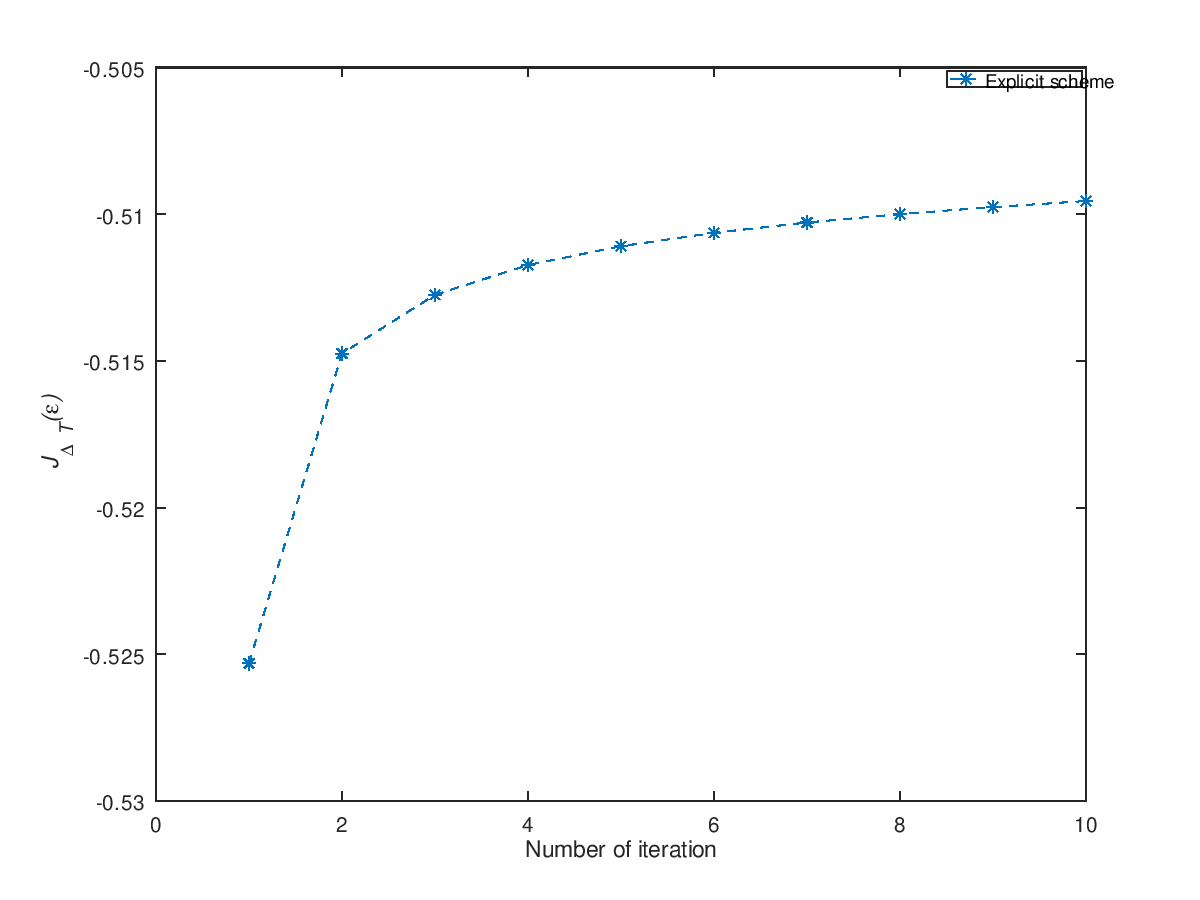
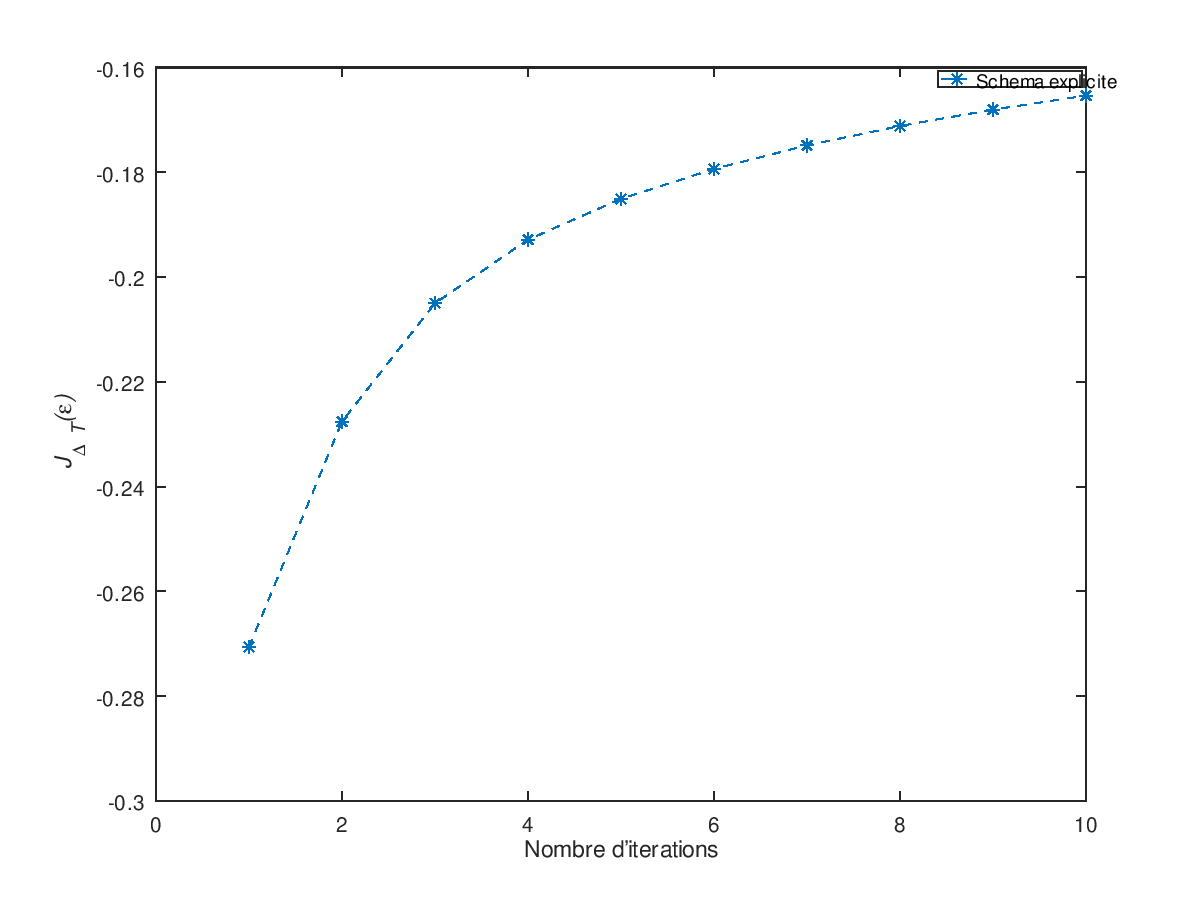
:pray:

diff --git a/explicit_test.m b/explicit_test.m
@@ -1,4 +1,4 @@
-function explicit
+function explicit_test
 %============= Variables =================
 T	=10;
 L	=200; %return to 200
@@ -14,8 +14,8 @@ y0 = [1;0];
 ycible	=[0;1];
 
 maxiter	= 10; %return to 30 after
-c	= ones(1,L-1)*0.3; %eps
-ctil = ones(1,L-1)*0.5; %eps tilde
+c	= rand(1,L-1)*0.5; %eps
+ctil = rand(1,L-1)*0.5; %eps tilde
 %division by zero in mus if c=ctilde
 
 y=zeros(2,L);
@@ -36,7 +36,11 @@ chib=zeros(2,L);
 chib(:,L)=expm(-(H0*dt)/(2*i))*p(:,L);
 
 Jtab=zeros(1,maxiter);
-
+un = 0;
+deux = 0;
+yold=y;
+cold=rand(1,L-1)*0.5;
+psitold=psit;
 
 %============= Main =================
 for iter=1:maxiter
@@ -45,8 +49,8 @@ for iter=1:maxiter
   %step1
     for j=L-1:-1:1
     chib(:,j+1)=expm(-(H0*dt)/(2*i))*p(:,j+1);
-    etha(j)=alpha/(alpha+dt*real(chib(:,j+1)'*(H1^2)*psit(:,j+1)));
-    ctil(j)=(1-etha(j))*c(j)-(etha(j)/alpha)*imag(chib(:,j+1)'*H1*psit(:,j+1));
+    %etha(j)=alpha/(alpha+dt*real(chib(:,j+1)'*(H1^2)*psit(:,j+1)));
+    %ctil(j)=(1-etha(j))*c(j)-(etha(j)/alpha)*imag(chib(:,j+1)'*H1*psit(:,j+1));
     chit(:,j)=expm(i*H1*ctil(:,j)*dt)*chib(:,j+1);
     p(:,j)=expm(i*H0*dt/2)*chit(:,j);
   end
@@ -55,22 +59,29 @@ for iter=1:maxiter
   %step2
   for j=1:L-1
     psib(:,j)=expm((H0*dt)/(2*i))*y(:,j);
-    delta(j)=alpha/(alpha+dt*real(chit(:,j)'*(H1^2)*psib(:,j)));
-    c(j)=(1-delta(j))*ctil(j)-(delta(j)/alpha)*imag(chit(:,j)'*H1*psib(:,j));
+    %delta(j)=alpha/(alpha+dt*real(chit(:,j)'*(H1^2)*psib(:,j)));
+    %c(j)=(1-delta(j))*ctil(j)-(delta(j)/alpha)*imag(chit(:,j)'*H1*psib(:,j));
     psit(:,j+1)=expm(-i*H1*c(:,j)*dt)*psib(:,j);
     y(:,j+1)=expm(-i*H0*dt/2)*psit(:,j+1);
+    un = un + ((expm(-i*H1*(ctil(j)-c(j))*dt)-eye(2))*psib(:,j))'*chit(:,j);
+    deux = deux + (psitold(:,j+1))'*((expm(-i*H1*(ctil(j)-cold(j))*dt)-eye(2))*chib(:,j+1));
   end
-  %c
+  %test debug calcul, Au total page 22
+  cold=c;
+  psitold=psit;
+  %(y(:,L)-yold(:,L))'*p(:,L)-(un+deux)
+  norm((y(:,L)-yold(:,L))'*p(:,L)-(un+deux))
+  yold=y;
 
   %J=2-norm(ycible-y(:,L))^2 - alpha * dt * norm(c)^2;
   J=2*real(ycible'*y(:,L)) - alpha * dt * norm(c)^2;
   
   Jtab(iter)=J;
   
-	plot(Jtab, '--*');
-  xlabel("Nombre d'iterations");
-  ylabel ('{\it J_{\Delta T}(\epsilon)}')
-  legend ("Schema explicite");
+	%plot(Jtab, '--*');
+  %xlabel("Number of iteration");
+  %ylabel ('{\it J_{\Delta T}(\epsilon)}')
+  %legend ("Explicit scheme");
   
   %plot(t(1:end-1),c)
   %xlabel("Temps de contrôle");
@@ -84,7 +95,7 @@ for iter=1:maxiter
   
 	pause(.1);
   
-	fprintf(2,'Iter=%i|J=%f \n',iter,J)
+	%fprintf(2,'Iter=%i|J=%f \n',iter,J)
 end
 %fprintf(1,'y(T)=%f \n',y(:,L))
 %cputime ()

diff --git a/explicitdim10.m b/explicitdim10.m
@@ -74,10 +74,10 @@ for iter=1:maxiter
   
   Jtab(iter)=J;
   
-	%plot(Jtab, '--*');
-  %xlabel("Number of iteration");
-  %ylabel ('{\it J_{\Delta T}(\epsilon)}')
-  %legend ("Explicit scheme");
+	plot(Jtab, '--*');
+  xlabel("Nombre d'iterations");
+  ylabel ('{\it J_{\Delta T}(\epsilon)}')
+  legend ("Schema explicite");
   
   %plot(t(1:end-1),c)
   %xlabel("Temps de contrôle");

diff --git a/implicit.m b/implicit.m
@@ -85,9 +85,9 @@ for iter=1:maxiter
   Jtab(iter)=J;
 	
   plot(Jtab, '--*');
-  xlabel("Number of iteration");
+  xlabel("Nombre d'iterations");
   ylabel ('{\it J_{\Delta T}(\epsilon)}')
-  legend ("Implicit scheme");
+  legend ("Schema implicite");
   
   %plot(t(1:end-1),c)
   %xlabel("Temps de contrôle");
